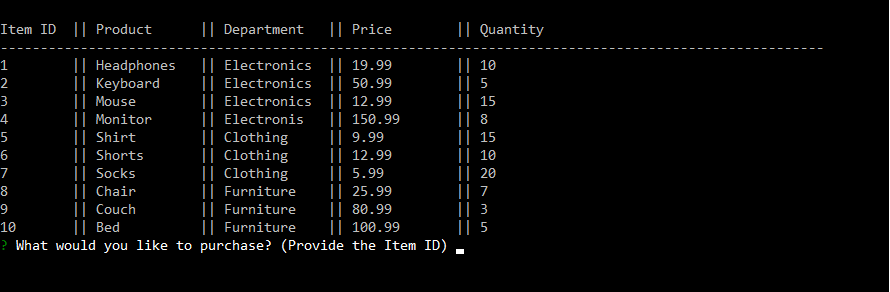
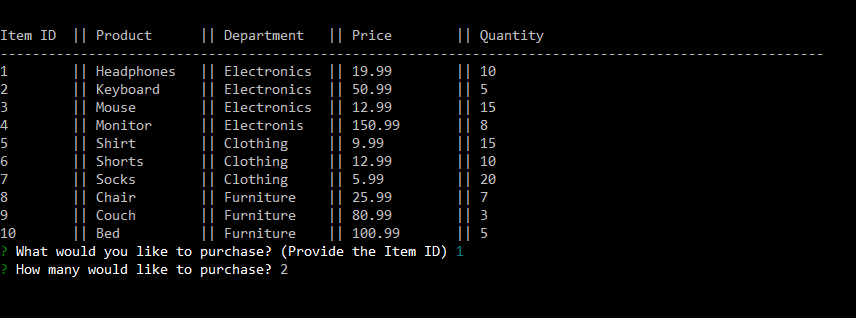
New screenshots, Edited README

Changed region(s): [[0.0, 0.0616, 0.972, 0.863], [0.0, 0.0616, 0.1822, 0.1233]]

diff --git a/README.md b/README.md
@@ -1,12 +1,29 @@
 # Bamazon
 
 To run the script, you will need to install the 'mysql' and 'inquirer'packages
-'''
+```
 $ npm install mysql --save 
-'''
+```
 
-'''
+```
 $ npm install inquirer --save
-'''
+```
+
+When you first run the program, a list of available items will be displayed and you will be prompted with questions regarding a purchase.
 
 ![First Run](images/screenshot_1.png)
+
+After selecting a valid item and quantity, you will be given the total cost.
+
+![Successful Purchase](images/screenshot_2.png)
+
+An updated table of items will be displayed again if you want to continue with another purchase.
+The previous purchase inlcuded item 1 with a quantity of 2. Therefore the update table shows a change
+in stock quantity from 10 to 8.
+
+![Updated Table](images/screenshot_3.png)
+
+If you try to purchase an amount greater than the current stock quantity, your purchase will not go through and you must order again.
+
+![Failed Purchase](images/screenshot_4.png)
+
